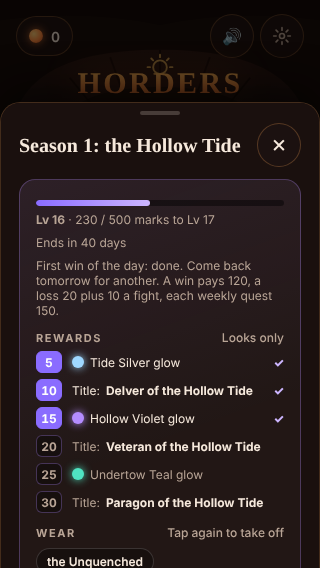
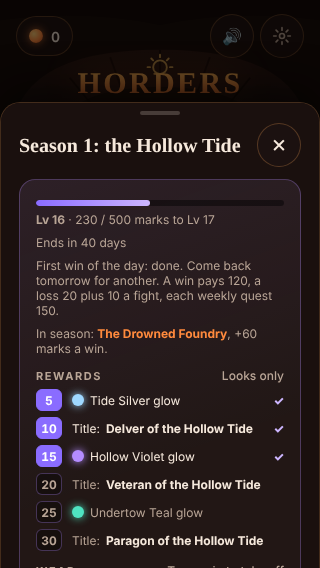
Season: each theme has a dungeon in season (+60 marks a win); Season 2 is the Hammerdeep (#195)
Claude-Session: https://claude.ai/code/session_012zrft6Arfax5T4DTeyjNtp

Changed region(s): [[0.0938, 0.5687, 0.9062, 1.0], [0.5312, 0.9877, 0.5625, 1.0]]

diff --git a/sim/content/season.ts b/sim/content/season.ts
@@ -5,6 +5,8 @@
  * reads the clock. Spec: docs/design/season.md.
  */
 
+import type { DungeonId } from './dungeon';
+
 export interface SeasonState {
   /** Season number (seasonOf(week)). A new season starts the track again; cosmetics stay. */
   id: number;
@@ -15,7 +17,12 @@ export interface SeasonState {
 
 export interface Glow { id: string; name: string; color: string }
 
-export interface SeasonDef { name: string; glows: [Glow, Glow, Glow] }
+export interface SeasonDef {
+  name: string;
+  glows: [Glow, Glow, Glow];
+  /** The season's dungeon: a win there (delve, key run or bounty) pays SEASON.featured more marks. */
+  dungeon: DungeonId;
+}
 
 export const SEASON = {
   weeks: 6,
@@ -29,6 +36,8 @@ export const SEASON = {
   firstWin: 200,
   /** Each weekly quest finished. */
   weekly: 150,
+  /** Extra marks for a win in the season's own dungeon (SeasonDef.dungeon). */
+  featured: 60,
   /** Reward levels: a glow at 5, 15 and 25, a title at 10, 20 and 30. */
   glowAt: [5, 15, 25],
   titleAt: [10, 20, 30],
@@ -37,10 +46,10 @@ export const SEASON = {
 
 /** Season themes, in turn. Every name is Horders' own (its world, bosses and tagline). */
 export const SEASONS: SeasonDef[] = [
-  { name: 'the Hollow Tide', glows: [{ id: 'tideSilver', name: 'Tide Silver', color: '#9fd8ff' }, { id: 'hollowViolet', name: 'Hollow Violet', color: '#b48cff' }, { id: 'undertowTeal', name: 'Undertow Teal', color: '#4fe3c1' }] },
-  { name: 'the Deep Bellows', glows: [{ id: 'bellowsOrange', name: 'Bellows Orange', color: '#ff9a3c' }, { id: 'kilnRed', name: 'Kiln Red', color: '#ff5a4a' }, { id: 'whiteHeat', name: 'White Heat', color: '#fff1d6' }] },
-  { name: 'the Cold Hearth', glows: [{ id: 'rimeBlue', name: 'Rime Blue', color: '#8fb8ff' }, { id: 'coalGlow', name: 'Coal Glow', color: '#ffb36b' }, { id: 'frostbite', name: 'Frostbite', color: '#d8f4ff' }] },
-  { name: 'the Slag Moon', glows: [{ id: 'slagGold', name: 'Slag Gold', color: '#ffc861' }, { id: 'moonAsh', name: 'Moon Ash', color: '#c9c2b8' }, { id: 'pourCrimson', name: 'Pour Crimson', color: '#ff6a8a' }] },
+  { name: 'the Hollow Tide', glows: [{ id: 'tideSilver', name: 'Tide Silver', color: '#9fd8ff' }, { id: 'hollowViolet', name: 'Hollow Violet', color: '#b48cff' }, { id: 'undertowTeal', name: 'Undertow Teal', color: '#4fe3c1' }], dungeon: 'foundry' },
+  { name: 'the Deep Bellows', glows: [{ id: 'bellowsOrange', name: 'Bellows Orange', color: '#ff9a3c' }, { id: 'kilnRed', name: 'Kiln Red', color: '#ff5a4a' }, { id: 'whiteHeat', name: 'White Heat', color: '#fff1d6' }], dungeon: 'hammerdeep' },
+  { name: 'the Cold Hearth', glows: [{ id: 'rimeBlue', name: 'Rime Blue', color: '#8fb8ff' }, { id: 'coalGlow', name: 'Coal Glow', color: '#ffb36b' }, { id: 'frostbite', name: 'Frostbite', color: '#d8f4ff' }], dungeon: 'coldmarrow' },
+  { name: 'the Slag Moon', glows: [{ id: 'slagGold', name: 'Slag Gold', color: '#ffc861' }, { id: 'moonAsh', name: 'Moon Ash', color: '#c9c2b8' }, { id: 'pourCrimson', name: 'Pour Crimson', color: '#ff6a8a' }], dungeon: 'glarewell' },
 ];
 
 /** Season 1 starts on the week of 21 Nov 2026: weekOf(Date.UTC(2026, 10, 21)) = 2968. */
@@ -89,8 +98,8 @@ export function seasonRewards(id: number): SeasonReward[] {
 /** Every glow any season can give, by id (for wearing one from an earlier season). */
 export const GLOWS: Record<string, Glow> = Object.fromEntries(SEASONS.flatMap((s) => s.glows).map((g) => [g.id, g]));
 
-/** Marks for one run. */
-export function runMarks(victory: boolean, fightsCleared: number, weeklyDone: number, firstWin: boolean): number {
+/** Marks for one run. `featured`: the run was in the season's own dungeon (only a win pays it). */
+export function runMarks(victory: boolean, fightsCleared: number, weeklyDone: number, firstWin: boolean, featured = false): number {
   const base = victory ? SEASON.win : SEASON.lossBase + SEASON.lossPerFight * Math.max(0, Math.min(5, fightsCleared));
-  return base + (firstWin ? SEASON.firstWin : 0) + SEASON.weekly * weeklyDone;
+  return base + (victory && featured ? SEASON.featured : 0) + (firstWin ? SEASON.firstWin : 0) + SEASON.weekly * weeklyDone;
 }

diff --git a/sim/hero.ts b/sim/hero.ts
@@ -1,4 +1,4 @@
-import { SEASON, SeasonReward, SeasonState, runMarks, seasonLevel, seasonRewards, seasonState } from './content/season';
+import { SEASON, SeasonReward, SeasonState, runMarks, seasonDef, seasonLevel, seasonRewards, seasonState } from './content/season';
 import { ACHIEVEMENTS, Achievement, AchievementView, Deeds, addDeeds } from './content/achievements';
 import { COLLECTION_REWARDS, CollectionReward, EntryKey, entriesOf, rewardProgress } from './content/collections';
 import type { DungeonId } from './content/dungeon';
@@ -274,6 +274,8 @@ export interface RunRewards {
   seasonTo?: number;
   seasonRewards?: SeasonReward[];
   seasonFirstWin?: boolean;
+  /** P2: the win was in the season's own dungeon and paid SEASON.featured extra marks. */
+  seasonFeatured?: boolean;
   /** P6: achievements this run completed (each pays its title and embers once). */
   achievements?: Achievement[];
 }
@@ -459,11 +461,12 @@ export function collectionOf(hero: HeroProfile): Set<EntryKey> {
 }
 
 /** P2: adds this run's season marks and grants every reward the track passed. */
-function applySeason(hero: HeroProfile, s: RunSummary, weeklyDone: number): Pick<RunRewards, 'seasonMarks' | 'seasonFrom' | 'seasonTo' | 'seasonRewards' | 'seasonFirstWin'> {
+function applySeason(hero: HeroProfile, s: RunSummary, weeklyDone: number): Pick<RunRewards, 'seasonMarks' | 'seasonFrom' | 'seasonTo' | 'seasonRewards' | 'seasonFirstWin' | 'seasonFeatured'> {
   const st = { ...seasonState(hero.season, s.week ?? 0) };
   const firstWin = s.victory && s.day !== undefined && st.firstWinDay !== s.day;
   if (firstWin) st.firstWinDay = s.day;
-  const marks = runMarks(s.victory, s.fightsCleared ?? 0, weeklyDone, firstWin);
+  const featured = s.victory && s.dungeon !== undefined && s.dungeon === seasonDef(st.id).dungeon;
+  const marks = runMarks(s.victory, s.fightsCleared ?? 0, weeklyDone, firstWin, featured);
   const from = seasonLevel(st.marks);
   st.marks = Math.min(SEASON.levels * SEASON.marksPerLevel, st.marks + marks);
   hero.season = st;
@@ -473,7 +476,7 @@ function applySeason(hero: HeroProfile, s: RunSummary, weeklyDone: number): Pick
     if (r.kind === 'glow') hero.glows = [...new Set([...(hero.glows ?? []), r.glow.id])];
     else hero.titles = [...new Set([...(hero.titles ?? []), r.title])];
   }
-  return { seasonMarks: marks, seasonFrom: from, seasonTo: to, ...(got.length ? { seasonRewards: got } : {}), ...(firstWin ? { seasonFirstWin: true } : {}) };
+  return { seasonMarks: marks, seasonFrom: from, seasonTo: to, ...(got.length ? { seasonRewards: got } : {}), ...(firstWin ? { seasonFirstWin: true } : {}), ...(featured ? { seasonFeatured: true } : {}) };
 }
 
 /** P6: adds the run to the account's deeds and pays every achievement it completes, once each. */

diff --git a/tests/season.test.ts b/tests/season.test.ts
@@ -1,6 +1,7 @@
 import { describe, expect, it } from 'vitest';
 import { applyRun, newHero, wearCosmetic } from '../sim/hero';
-import { SEASON, SEASON_START_WEEK, runMarks, seasonLevel, seasonOf, seasonRewards, seasonState, seasonWeeks } from '../sim/content/season';
+import { SEASON, SEASONS, SEASON_START_WEEK, runMarks, seasonDef, seasonLevel, seasonOf, seasonRewards, seasonState, seasonWeeks } from '../sim/content/season';
+import { DUNGEONS } from '../sim/content/dungeon';
 import type { RunSummary } from '../sim/world';
 import { World } from '../sim/world';
 
@@ -25,6 +26,27 @@ describe('season track (P2)', () => {
     expect(runMarks(false, 2, 0, false)).toBe(SEASON.lossBase + 2 * SEASON.lossPerFight);
     expect(runMarks(false, 9, 0, false)).toBe(SEASON.lossBase + 5 * SEASON.lossPerFight);
     expect(runMarks(true, 5, 2, true)).toBe(SEASON.win + SEASON.firstWin + 2 * SEASON.weekly);
+  });
+
+  it("a win in the season's own dungeon pays the featured bonus; a loss there does not", () => {
+    expect(runMarks(true, 5, 0, false, true)).toBe(SEASON.win + SEASON.featured);
+    expect(runMarks(false, 2, 0, false, true)).toBe(SEASON.lossBase + 2 * SEASON.lossPerFight);
+    // Every theme names a real dungeon, and no two themes share one.
+    for (const d of SEASONS) expect(DUNGEONS[d.dungeon]).toBeDefined();
+    expect(new Set(SEASONS.map((d) => d.dungeon)).size).toBe(SEASONS.length);
+    const h = newHero();
+    h.weekly = { week: W, titled: true, quests: [] };
+    h.season = { id: seasonOf(W), marks: 0, firstWinDay: W * 7 + 1 };
+    const home = seasonDef(seasonOf(W)).dungeon;
+    const a = applyRun(h, 1, run(true, { dungeon: home }), false);
+    expect(a.seasonFeatured).toBe(true);
+    expect(a.seasonMarks).toBe(SEASON.win + SEASON.featured);
+    const b = applyRun(h, 2, run(false, { dungeon: home }), false);
+    expect(b.seasonFeatured).toBeUndefined();
+    const other = home === 'kiln' ? 'foundry' : 'kiln';
+    const c = applyRun(h, 3, run(true, { dungeon: other }), false);
+    expect(c.seasonFeatured).toBeUndefined();
+    expect(c.seasonMarks).toBe(SEASON.win);
   });
 
   it('the first win of a day pays once, and runs without a week earn nothing', () => {

diff --git a/client/ui.ts b/client/ui.ts
@@ -613,7 +613,7 @@ export class Hud {
       if (rewards.bountyEmbers) notes.push(`<b>Daily bounty paid: +${rewards.bountyEmbers} embers</b>`);
       for (const q of rewards.weeklyDone ?? []) notes.push(`<b>Weekly quest done: ${WEEKLY_QUESTS[q.id].name} +${q.embers} embers</b>`);
       if (rewards.title) notes.push(`<b>Title earned: ${rewards.title}</b>`);
-      if (rewards.seasonMarks) notes.push(`<span class="booknote"><span aria-hidden="true">✦</span> Season +${rewards.seasonMarks} marks${rewards.seasonFirstWin ? ' (first win today)' : ''}${(rewards.seasonTo ?? 0) > (rewards.seasonFrom ?? 0) ? ` · <b>Season level ${rewards.seasonTo}</b>` : ''}</span>`);
+      if (rewards.seasonMarks) notes.push(`<span class="booknote"><span aria-hidden="true">✦</span> Season +${rewards.seasonMarks} marks${rewards.seasonFirstWin ? ' (first win today)' : ''}${rewards.seasonFeatured ? ' (in season)' : ''}${(rewards.seasonTo ?? 0) > (rewards.seasonFrom ?? 0) ? ` · <b>Season level ${rewards.seasonTo}</b>` : ''}</span>`);
       for (const r of rewards.seasonRewards ?? []) notes.push(`<b>Season reward: ${r.kind === 'glow' ? `${r.glow.name} glow` : `title ${r.title}`}</b>`);
       if (rewards.collectionNew?.length) notes.push(`<span class="booknote"><span aria-hidden="true">❖</span> ${rewards.collectionNew.length} new in your Collection</span>`);
       for (const r of rewards.collectionRewards ?? []) notes.push(`<b>Collection: ${r.name} +${r.embers} embers${r.title ? `, title ${r.title}` : ''}</b>`);

diff --git a/client/hub.ts b/client/hub.ts
@@ -538,6 +538,7 @@ export class Hub {
       + `<div class="wq-bar"><i style="width:${pct.toFixed(1)}%"></i></div>`
       + `<div class="kv"><span><b>Lv ${lvl}</b> · ${maxed ? 'Track complete' : `${into} / ${SEASON.marksPerLevel} marks to Lv ${lvl + 1}`}</span><span class="muted">Ends in ${end} ${end === 1 ? 'day' : 'days'}</span></div>`
       + `<div class="hint">${today ? 'First win of the day: done. Come back tomorrow for another' : `Your first win today pays <b>+${SEASON.firstWin}</b> marks`}. A win pays ${SEASON.win}, a loss ${SEASON.lossBase} plus ${SEASON.lossPerFight} a fight, each weekly quest ${SEASON.weekly}.</div>`
+      + `<div class="hint">In season: <b>${DUNGEONS[def.dungeon].name}</b>, <span class="pay">+${SEASON.featured}</span> marks a win.</div>`
       + `<div class="sec-h"><span>Rewards</span><span class="muted">Looks only</span></div>${rewards}`
       + (titles.length || glows.length ? `<div class="sec-h"><span>Wear</span><span class="muted">Tap again to take off</span></div>`
         + (titles.length ? `<div class="wears">${wearT}</div>` : '') + (glows.length ? `<div class="wears">${wearG}</div>` : '') : '')

diff --git a/docs/design/season.md b/docs/design/season.md
@@ -14,6 +14,7 @@ A 30-level track over a 6-week season, earned by playing, with cosmetic rewards 
 | A loss | 20 + 10 per fight cleared (up to 5) |
 | The first win of each day | +200 |
 | Each weekly quest finished | +150 |
+| A win in the season's own dungeon (below) | +60 more |
 
 500 marks a level, so 15,000 for all 30.
 
@@ -30,6 +31,22 @@ From those daily rates (arithmetic, not simulated):
 - One who plays every other day with 1 delve reaches about level 20.
 
 The first win of the day is the biggest single source on purpose: it is the reason to come back tomorrow.
+
+## The season's dungeon (21 Nov 2026)
+Each season theme names one dungeon that is **in season**. A win there (a delve, a key run or a bounty) pays **+60 marks** on top of the 120. A loss there pays nothing extra, so the bonus never rewards throwing runs. The point is variety: every six weeks the track pulls players toward a different dungeon, and group seasons pull them into parties.
+
+| Season | Theme | In season | Why |
+|---|---|---|---|
+| 1 (from week 2968, Thu 19 Nov 2026) | the Hollow Tide | The Drowned Foundry | The rising water |
+| 2 (from week 2974, Thu 31 Dec 2026) | the Deep Bellows | The Hammerdeep | The forge's bellows; the first group season, so a reason to queue as tank or healer |
+| 3 (from week 2980, Thu 11 Feb 2027) | the Cold Hearth | The Coldmarrow | Nhevra's cold deep under the Kiln |
+| 4 | the Slag Moon | The Glarewell | The sunken observatory that watches the sky |
+
+The weeks were checked with node (`new Date(w * 7 * 864e5)`): week numbers count from 1 Jan 1970, a Thursday, so every season turns on a Thursday (UTC). The Crucible is never in season, because it needs four heroes and a bonus there would only reward players who already have a raid group. No theme shares a dungeon (`tests/season.test.ts`).
+
+**Pacing (arithmetic, not simulated):** a player who wins 3 delves a day, all in season, earns up to 180 more marks a day: about 820 instead of 640, so level 30 in about 18 days instead of 23. A player who never visits the season's dungeon is unchanged. Both stay inside the 3 to 6 week range above.
+
+**Where it shows:** the season sheet has an "In season: The Hammerdeep, +60 marks a win." line under the marks rules, and the end screen's season note adds "(in season)" when the win paid it. Code: `SeasonDef.dungeon`, `SEASON.featured` and `runMarks(..., featured)` in `sim/content/season.ts`; `applySeason` in `sim/hero.ts` sets `RunRewards.seasonFeatured`. No new names, so nothing needed a WoW search.
 
 ## Rewards: looks only
 | Level | Reward |
@@ -56,3 +73,4 @@ The first win of the day is the biggest single source on purpose: it is the reas
 **Watch items:**
 - Real play rates. If most players finish in under 3 weeks, raise `marksPerLevel`.
 - More cosmetic kinds (P6), so levels between the six rewards give something too.
+- How many wins land in the season's dungeon. If almost none do, the bonus is too small to pull players there; if nearly all do, the other dungeons go quiet for six weeks.

diff --git a/docs/design/roadmap.md b/docs/design/roadmap.md
@@ -63,7 +63,7 @@ Reasons to come back tomorrow and next week.
 | # | Feature | Owner | Notes |
 |---|---|---|---|
 | P1 | **Weekly quests:** 3 goals a week (beat X with Y, interrupt 30 casts), paying embers and a cosmetic | design | ✅ #110 (sim/content/weekly.ts) |
-| P2 | **Season track:** 30 levels over 6 weeks, earned by playing, with cosmetic rewards only | design + engineering | ✅ season.md (local track, titles and glows). ✅ Visuals: glows render under the hero in runs (#137). Engineering: P6 shows the worn title in co-op |
+| P2 | **Season track:** 30 levels over 6 weeks, earned by playing, with cosmetic rewards only | design + engineering | ✅ season.md (local track, titles and glows). ✅ Each season has a dungeon in season (+60 marks a win): Season 2 (31 Dec) is the Hammerdeep. ✅ Visuals: glows render under the hero in runs (#137). Engineering: P6 shows the worn title in co-op |
 | P3 | **Mythic+ style keys:** clear a tier and get a key for +1 with one more Omen; a leaderboard per dungeon | design + engineering | ✅ #117 (Delver's Keys). The leaderboard waits on engineering's migration 0004 |
 | P4 | **Collections:** a set and Mythic book with completion rewards | design + visuals | ✅ collections.md (sim, hub sheet, end-screen notes). ✅ Visuals: book art (#138) |
 | P5 | **Hero roster:** a second hero slot, with account-wide embers | engineering | ✅ One character per class (switch on the title screen) and one shared ember purse; old per-class purses are added together on load (economy.md, Shared purse) |
